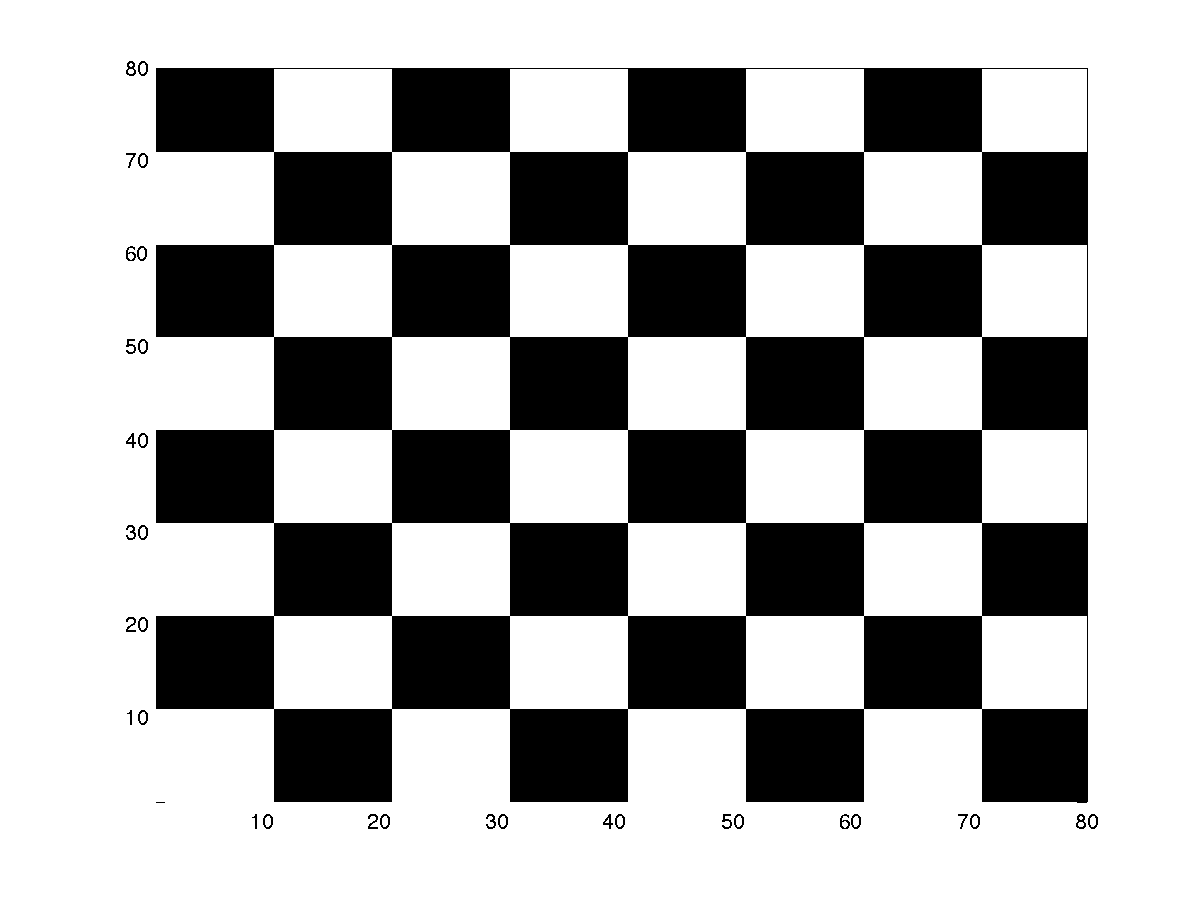
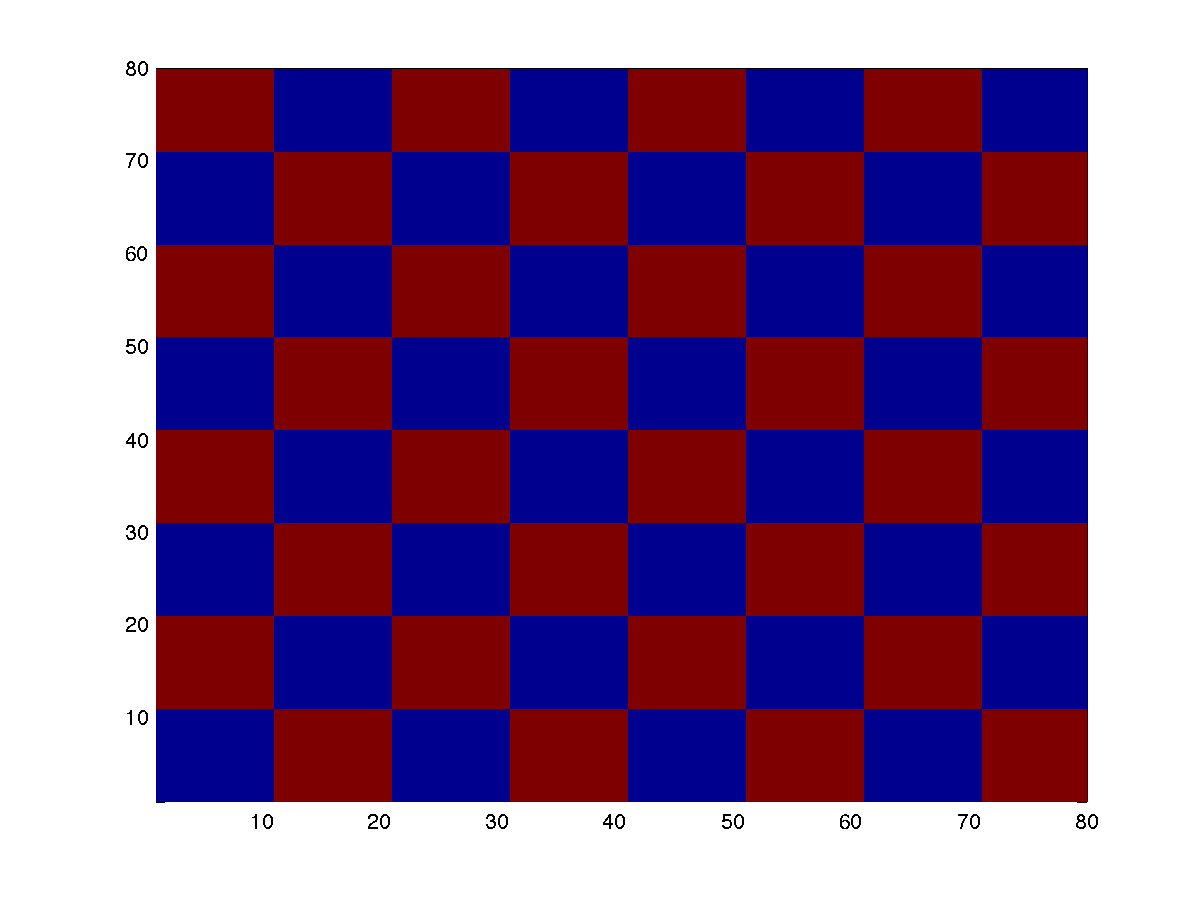
Added a report that executes workflows

diff --git a/assets/WorkFlowTest.html b/assets/WorkFlowTest.html
@@ -1,0 +1,142 @@
+
+<!DOCTYPE html
+  PUBLIC "-//W3C//DTD HTML 4.01 Transitional//EN">
+<html><head>
+      <meta http-equiv="Content-Type" content="text/html; charset=utf-8">
+   <!--
+This HTML was auto-generated from MATLAB code.
+To make changes, update the MATLAB code and republish this document.
+      --><title>Installing an executing a workflow</title><meta name="generator" content="MATLAB 8.1"><link rel="schema.DC" href="http://purl.org/dc/elements/1.1/"><meta name="DC.date" content="2014-05-03"><meta name="DC.source" content="WorkFlowTest.m"><style type="text/css">
+html,body,div,span,applet,object,iframe,h1,h2,h3,h4,h5,h6,p,blockquote,pre,a,abbr,acronym,address,big,cite,code,del,dfn,em,font,img,ins,kbd,q,s,samp,small,strike,strong,sub,sup,tt,var,b,u,i,center,dl,dt,dd,ol,ul,li,fieldset,form,label,legend,table,caption,tbody,tfoot,thead,tr,th,td{margin:0;padding:0;border:0;outline:0;font-size:100%;vertical-align:baseline;background:transparent}body{line-height:1}ol,ul{list-style:none}blockquote,q{quotes:none}blockquote:before,blockquote:after,q:before,q:after{content:'';content:none}:focus{outine:0}ins{text-decoration:none}del{text-decoration:line-through}table{border-collapse:collapse;border-spacing:0}
+
+html { min-height:100%; margin-bottom:1px; }
+html body { height:100%; margin:0px; font-family:Arial, Helvetica, sans-serif; font-size:10px; color:#000; line-height:140%; background:#fff none; overflow-y:scroll; }
+html body td { vertical-align:top; text-align:left; }
+
+h1 { padding:0px; margin:0px 0px 25px; font-family:Arial, Helvetica, sans-serif; font-size:1.5em; color:#d55000; line-height:100%; font-weight:normal; }
+h2 { padding:0px; margin:0px 0px 8px; font-family:Arial, Helvetica, sans-serif; font-size:1.2em; color:#000; font-weight:bold; line-height:140%; border-bottom:1px solid #d6d4d4; display:block; }
+h3 { padding:0px; margin:0px 0px 5px; font-family:Arial, Helvetica, sans-serif; font-size:1.1em; color:#000; font-weight:bold; line-height:140%; }
+
+a { color:#005fce; text-decoration:none; }
+a:hover { color:#005fce; text-decoration:underline; }
+a:visited { color:#004aa0; text-decoration:none; }
+
+p { padding:0px; margin:0px 0px 20px; }
+img { padding:0px; margin:0px 0px 20px; border:none; }
+p img, pre img, tt img, li img { margin-bottom:0px; } 
+
+ul { padding:0px; margin:0px 0px 20px 23px; list-style:square; }
+ul li { padding:0px; margin:0px 0px 7px 0px; }
+ul li ul { padding:5px 0px 0px; margin:0px 0px 7px 23px; }
+ul li ol li { list-style:decimal; }
+ol { padding:0px; margin:0px 0px 20px 0px; list-style:decimal; }
+ol li { padding:0px; margin:0px 0px 7px 23px; list-style-type:decimal; }
+ol li ol { padding:5px 0px 0px; margin:0px 0px 7px 0px; }
+ol li ol li { list-style-type:lower-alpha; }
+ol li ul { padding-top:7px; }
+ol li ul li { list-style:square; }
+
+.content { font-size:1.2em; line-height:140%; padding: 20px; }
+
+pre, tt, code { font-size:12px; }
+pre { margin:0px 0px 20px; }
+pre.error { color:red; }
+pre.codeinput { padding:10px; border:1px solid #d3d3d3; background:#f7f7f7; }
+pre.codeoutput { padding:10px 11px; margin:0px 0px 20px; color:#4c4c4c; }
+
+@media print { pre.codeinput, pre.codeoutput { word-wrap:break-word; width:100%; } }
+
+span.keyword { color:#0000FF }
+span.comment { color:#228B22 }
+span.string { color:#A020F0 }
+span.untermstring { color:#B20000 }
+span.syscmd { color:#B28C00 }
+
+.footer { width:auto; padding:10px 0px; margin:25px 0px 0px; border-top:1px dotted #878787; font-size:0.8em; line-height:140%; font-style:italic; color:#878787; text-align:left; float:none; }
+.footer p { margin:0px; }
+.footer a { color:#878787; }
+.footer a:hover { color:#878787; text-decoration:underline; }
+.footer a:visited { color:#878787; }
+
+table th { padding:7px 5px; text-align:left; vertical-align:middle; border: 1px solid #d6d4d4; font-weight:bold; }
+table td { padding:7px 5px; text-align:left; vertical-align:top; border:1px solid #d6d4d4; }
+
+
+
+
+
+  </style></head><body><div class="content"><h1>Installing an executing a workflow</h1><!--introduction--><!--/introduction--><h2>Contents</h2><div><ul><li><a href="#1">Download a Git Repository</a></li><li><a href="#2">Create a dataset with spatial fields</a></li><li><a href="#3">Compute Spatial Statistics on the phase</a></li></ul></div><h2>Download a Git Repository<a name="1"></a></h2><pre class="codeinput"><span class="keyword">if</span> ~isdir( <span class="string">'./SpatialStatisticsFFT'</span> )
+    system(<span class="string">'sudo git clone https://github.com/tonyfast/SpatialStatisticsFFT.git'</span>);
+    addpath( genpath( <span class="string">'./SpatialStatisticsFFT'</span> ) );
+<span class="keyword">end</span>
+</pre><h2>Create a dataset with spatial fields<a name="2"></a></h2><pre class="codeinput">S.phase = round(checkerboard(10));
+</pre><h2>Compute Spatial Statistics on the phase<a name="3"></a></h2><pre class="codeinput">S.stats = SpatialStatsFFT( S.phase,[],<span class="string">'display'</span>, true );
+
+<span class="comment">% Save the displayed spatial statistics</span>
+S.image{1} = <span class="string">'testwf-stats-1.png'</span>;
+S.image{2} = <span class="string">'testwf-stats-2.png'</span>;
+S.name = <span class="string">'Example dataset when using workflows'</span>;
+saveas( gcf, <span class="string">'./assets/testwf-stats-1.png'</span> );
+
+pcolor( S.phase );
+saveas( gcf, <span class="string">'./assets/testwf-stats-2.png'</span> );
+drawnow;
+</pre><img vspace="5" hspace="5" src="WorkFlowTest_01.png" alt=""> <pre class="codeinput">matinpublish( S, <span class="string">'title'</span>, <span class="string">'Workflow Test Output'</span> )
+</pre><pre class="codeoutput">
+ans = 
+
+    phase: [80x80 double]
+    stats: [81x81 double]
+     name: 'Example dataset when using workflows'
+    image: {'testwf-stats-1.png'  'testwf-stats-2.png'}
+
+</pre><p>wrap the output results</p><pre class="codeinput">S = rmfield( S, <span class="string">'image'</span> );
+
+wrapout = @(x)setfield( x, <span class="string">'stats'</span>, SpatialStatsFFT( x.phase,[],<span class="string">'display'</span>, true ) );
+
+matinpublish( wrapout, S, <span class="string">'title'</span>, <span class="string">'Workflow Test Execute'</span> );
+drawnow;
+</pre><img vspace="5" hspace="5" src="WorkFlowTest_02.png" alt=""> <p class="footer"><br><a href="http://www.mathworks.com/products/matlab/">Published with MATLAB&reg; R2013a</a><br></p></div><!--
+##### SOURCE BEGIN #####
+%%  Installing an executing a workflow
+% 
+%% Download a Git Repository
+
+if ~isdir( './SpatialStatisticsFFT' )
+    system('sudo git clone https://github.com/tonyfast/SpatialStatisticsFFT.git');
+    addpath( genpath( './SpatialStatisticsFFT' ) );
+end
+
+%% Create a dataset with spatial fields
+
+S.phase = round(checkerboard(10));
+
+%% Compute Spatial Statistics on the phase
+
+S.stats = SpatialStatsFFT( S.phase,[],'display', true );
+
+% Save the displayed spatial statistics
+S.image{1} = 'testwf-stats-1.png';
+S.image{2} = 'testwf-stats-2.png';
+S.name = 'Example dataset when using workflows';
+saveas( gcf, './assets/testwf-stats-1.png' );
+
+pcolor( S.phase );
+saveas( gcf, './assets/testwf-stats-2.png' );
+drawnow;
+%%
+
+matinpublish( S, 'title', 'Workflow Test Output' )
+
+
+%%
+% wrap the output results
+
+S = rmfield( S, 'image' );
+
+wrapout = @(x)setfield( x, 'stats', SpatialStatsFFT( x.phase,[],'display', true ) );
+
+matinpublish( wrapout, S, 'title', 'Workflow Test Execute' );
+drawnow;
+##### SOURCE END #####
+--></body></html>

diff --git a/_posts/2014-05-03-Workflow-Report-Test.html b/_posts/2014-05-03-Workflow-Report-Test.html
@@ -1,0 +1,147 @@
+---
+layout: report
+title: Workflow Report Test
+
+---
+
+<!DOCTYPE html
+  PUBLIC "-//W3C//DTD HTML 4.01 Transitional//EN">
+<html><head>
+      <meta http-equiv="Content-Type" content="text/html; charset=utf-8">
+   <!--
+This HTML was auto-generated from MATLAB code.
+To make changes, update the MATLAB code and republish this document.
+      --><title>Installing an executing a workflow</title><meta name="generator" content="MATLAB 8.1"><link rel="schema.DC" href="http://purl.org/dc/elements/1.1/"><meta name="DC.date" content="2014-05-03"><meta name="DC.source" content="WorkFlowTest.m"><style type="text/css">
+html,body,div,span,applet,object,iframe,h1,h2,h3,h4,h5,h6,p,blockquote,pre,a,abbr,acronym,address,big,cite,code,del,dfn,em,font,img,ins,kbd,q,s,samp,small,strike,strong,sub,sup,tt,var,b,u,i,center,dl,dt,dd,ol,ul,li,fieldset,form,label,legend,table,caption,tbody,tfoot,thead,tr,th,td{margin:0;padding:0;border:0;outline:0;font-size:100%;vertical-align:baseline;background:transparent}body{line-height:1}ol,ul{list-style:none}blockquote,q{quotes:none}blockquote:before,blockquote:after,q:before,q:after{content:'';content:none}:focus{outine:0}ins{text-decoration:none}del{text-decoration:line-through}table{border-collapse:collapse;border-spacing:0}
+
+
+
+
+
+h1 { padding:0px; margin:0px 0px 25px; font-family:Arial, Helvetica, sans-serif; font-size:1.5em; color:#d55000; line-height:100%; font-weight:normal; }
+h2 { padding:0px; margin:0px 0px 8px; font-family:Arial, Helvetica, sans-serif; font-size:1.2em; color:#000; font-weight:bold; line-height:140%; border-bottom:1px solid #d6d4d4; display:block; }
+h3 { padding:0px; margin:0px 0px 5px; font-family:Arial, Helvetica, sans-serif; font-size:1.1em; color:#000; font-weight:bold; line-height:140%; }
+
+a { color:#005fce; text-decoration:none; }
+a:hover { color:#005fce; text-decoration:underline; }
+a:visited { color:#004aa0; text-decoration:none; }
+
+p { padding:0px; margin:0px 0px 20px; }
+img { padding:0px; margin:0px 0px 20px; border:none; }
+p img, pre img, tt img, li img { margin-bottom:0px; } 
+
+ul { padding:0px; margin:0px 0px 20px 23px; list-style:square; }
+ul li { padding:0px; margin:0px 0px 7px 0px; }
+ul li ul { padding:5px 0px 0px; margin:0px 0px 7px 23px; }
+ul li ol li { list-style:decimal; }
+ol { padding:0px; margin:0px 0px 20px 0px; list-style:decimal; }
+ol li { padding:0px; margin:0px 0px 7px 23px; list-style-type:decimal; }
+ol li ol { padding:5px 0px 0px; margin:0px 0px 7px 0px; }
+ol li ol li { list-style-type:lower-alpha; }
+ol li ul { padding-top:7px; }
+ol li ul li { list-style:square; }
+
+.content { font-size:1.2em; line-height:140%; padding: 0px; }
+
+pre, tt, code { font-size:12px; }
+pre { margin:0px 0px 20px; }
+pre.error { color:red; }
+pre.codeinput { padding:10px; border:1px solid #d3d3d3; background:#f7f7f7; }
+pre.codeoutput { padding:10px 11px; margin:0px 0px 20px; color:#4c4c4c; }
+
+@media print { pre.codeinput, pre.codeoutput { word-wrap:break-word; width:100%; } }
+
+span.keyword { color:#0000FF }
+span.comment { color:#228B22 }
+span.string { color:#A020F0 }
+span.untermstring { color:#B20000 }
+span.syscmd { color:#B28C00 }
+
+.footer { width:auto; padding:10px 0px; margin:25px 0px 0px; border-top:1px dotted #878787; font-size:0.8em; line-height:140%; font-style:italic; color:#878787; text-align:left; float:none; }
+.footer p { margin:0px; }
+.footer a { color:#878787; }
+.footer a:hover { color:#878787; text-decoration:underline; }
+.footer a:visited { color:#878787; }
+
+table th { padding:7px 5px; text-align:left; vertical-align:middle; border: 1px solid #d6d4d4; font-weight:bold; }
+table td { padding:7px 5px; text-align:left; vertical-align:top; border:1px solid #d6d4d4; }
+
+
+
+
+
+  </style></head><body><div class="content"><h1>Installing an executing a workflow</h1><!--introduction--><!--/introduction--><h2>Contents</h2><div><ul><li><a href="#1">Download a Git Repository</a></li><li><a href="#2">Create a dataset with spatial fields</a></li><li><a href="#3">Compute Spatial Statistics on the phase</a></li></ul></div><h2>Download a Git Repository<a name="1"></a></h2><pre class="codeinput"><span class="keyword">if</span> ~isdir( <span class="string">'./SpatialStatisticsFFT'</span> )
+    system(<span class="string">'sudo git clone https://github.com/tonyfast/SpatialStatisticsFFT.git'</span>);
+    addpath( genpath( <span class="string">'./SpatialStatisticsFFT'</span> ) );
+<span class="keyword">end</span>
+</pre><h2>Create a dataset with spatial fields<a name="2"></a></h2><pre class="codeinput">S.phase = round(checkerboard(10));
+</pre><h2>Compute Spatial Statistics on the phase<a name="3"></a></h2><pre class="codeinput">S.stats = SpatialStatsFFT( S.phase,[],<span class="string">'display'</span>, true );
+
+<span class="comment">% Save the displayed spatial statistics</span>
+S.image{1} = <span class="string">'testwf-stats-1.png'</span>;
+S.image{2} = <span class="string">'testwf-stats-2.png'</span>;
+S.name = <span class="string">'Example dataset when using workflows'</span>;
+saveas( gcf, <span class="string">'./assets/testwf-stats-1.png'</span> );
+
+pcolor( S.phase );
+saveas( gcf, <span class="string">'./assets/testwf-stats-2.png'</span> );
+drawnow;
+</pre><img vspace="5" hspace="5" src="WorkFlowTest_01.png" alt=""> <pre class="codeinput">matinpublish( S, <span class="string">'title'</span>, <span class="string">'Workflow Test Output'</span> )
+</pre><pre class="codeoutput">
+ans = 
+
+    phase: [80x80 double]
+    stats: [81x81 double]
+     name: 'Example dataset when using workflows'
+    image: {'testwf-stats-1.png'  'testwf-stats-2.png'}
+
+</pre><p>wrap the output results</p><pre class="codeinput">S = rmfield( S, <span class="string">'image'</span> );
+
+wrapout = @(x)setfield( x, <span class="string">'stats'</span>, SpatialStatsFFT( x.phase,[],<span class="string">'display'</span>, true ) );
+
+matinpublish( wrapout, S, <span class="string">'title'</span>, <span class="string">'Workflow Test Execute'</span> );
+drawnow;
+</pre><img vspace="5" hspace="5" src="WorkFlowTest_02.png" alt=""> <p class="footer"><br><a href="http://www.mathworks.com/products/matlab/">Published with MATLAB&reg; R2013a</a><br></p></div><!--
+##### SOURCE BEGIN #####
+%%  Installing an executing a workflow
+% 
+%% Download a Git Repository
+
+if ~isdir( './SpatialStatisticsFFT' )
+    system('sudo git clone https://github.com/tonyfast/SpatialStatisticsFFT.git');
+    addpath( genpath( './SpatialStatisticsFFT' ) );
+end
+
+%% Create a dataset with spatial fields
+
+S.phase = round(checkerboard(10));
+
+%% Compute Spatial Statistics on the phase
+
+S.stats = SpatialStatsFFT( S.phase,[],'display', true );
+
+% Save the displayed spatial statistics
+S.image{1} = 'testwf-stats-1.png';
+S.image{2} = 'testwf-stats-2.png';
+S.name = 'Example dataset when using workflows';
+saveas( gcf, './assets/testwf-stats-1.png' );
+
+pcolor( S.phase );
+saveas( gcf, './assets/testwf-stats-2.png' );
+drawnow;
+%%
+
+matinpublish( S, 'title', 'Workflow Test Output' )
+
+
+%%
+% wrap the output results
+
+S = rmfield( S, 'image' );
+
+wrapout = @(x)setfield( x, 'stats', SpatialStatsFFT( x.phase,[],'display', true ) );
+
+matinpublish( wrapout, S, 'title', 'Workflow Test Execute' );
+drawnow;
+##### SOURCE END #####
+--></body></html>
